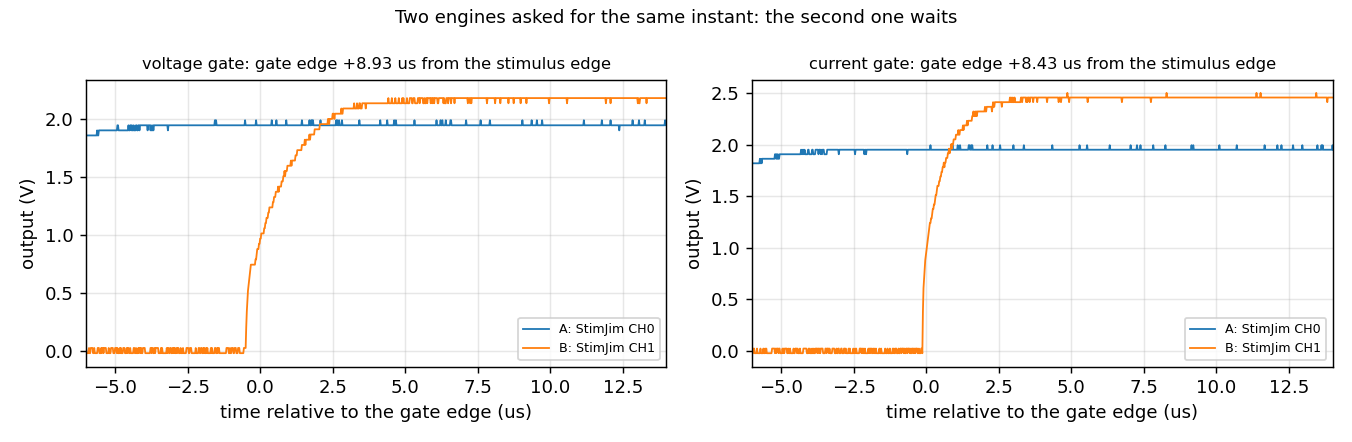
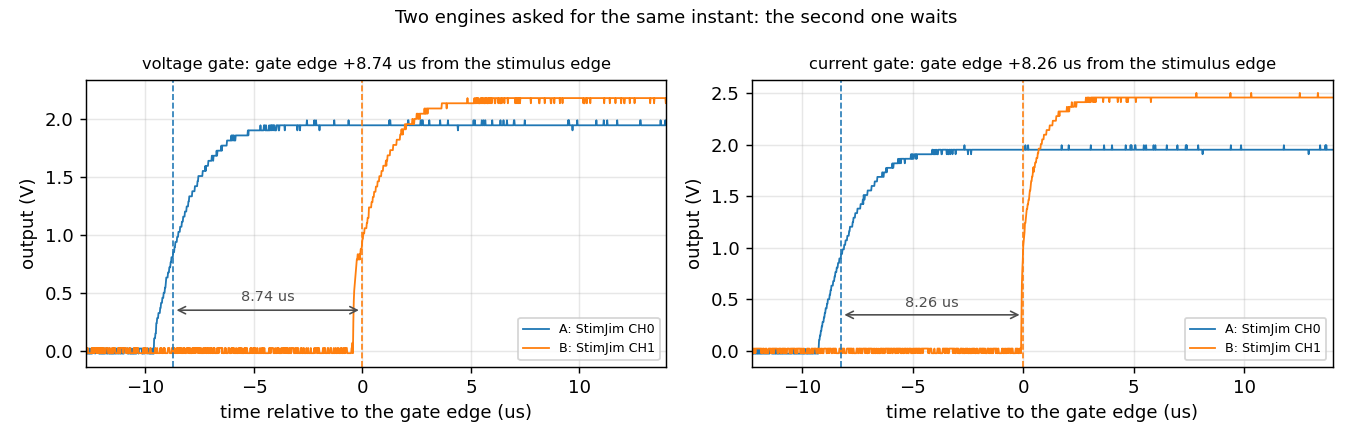
Show the stimulus edge in the collision figure, and keep its raw samples
The collision plot fixed its x limit at -6 us, but the stimulus edge sits
8-9 us before the gate edge it is plotted against, so the very edge being
measured fell outside the window and CH0 looked flat. The limit now follows
the measured skew, both crossings are marked, and the gap is annotated.

The captures are also written to tmp/ now, so the figure can be redrawn
without occupying the bench, and the tables in bench-wiring.md and the phase
entry are re-taken from the run the figures come from. That run puts the
coincidence at 8.74 us (voltage gate) and 8.26 us (current gate) -- larger
than C1's 7.39 us because contention costs however long the other engine's
ISR takes, and this one collides with a measured current-mode stage rather
than an unmeasured voltage one.

diff --git a/tests/device/dualchan.py b/tests/device/dualchan.py
@@ -947,13 +947,26 @@ def usecase_figures(res):
     for ax, m in zip(axes[0], modes):
         dt, ch = res[m]["collide"]
         n = len(ch[ps.CHANNEL_A])
+        sk = res[m].get("collide_skew")
+        # Time relative to the gate edge, which is where the scope triggered:
+        # 25 % pre-trigger puts it a quarter of the way into the record.
         t = [(i - n / 4) * dt * 1e6 for i in range(n)]
         ax.plot(t, ch[ps.CHANNEL_A], lw=1.0, label=NAME[ps.CHANNEL_A])
         ax.plot(t, ch[ps.CHANNEL_B], lw=1.0, label=NAME[ps.CHANNEL_B])
-        ax.set_xlim(-6, 14)
+        # The window has to reach back past the stimulus edge. A fixed -6 us
+        # cropped it out whenever the skew was larger than that, which left
+        # CH0 looking flat in the very figure that measures its edge.
+        lead = sk * 1e6 if sk is not None else 0.0
+        ax.set_xlim(min(-lead, 0.0) - 4, 14)
+        if sk is not None:
+            ax.axvline(-lead, color="C0", ls="--", lw=0.9)
+            ax.axvline(0.0, color="C1", ls="--", lw=0.9)
+            ax.annotate("", (0.0, 0.35), (-lead, 0.35),
+                        arrowprops=dict(arrowstyle="<->", lw=0.9, color="0.3"))
+            ax.annotate(f"{lead:.2f} us", (-lead / 2, 0.40), fontsize=8,
+                        ha="center", va="bottom", color="0.3")
         ax.set_xlabel("time relative to the gate edge (us)")
         ax.set_ylabel("output (V)")
-        sk = res[m].get("collide_skew")
         ax.set_title(f"{m} gate" +
                      (f": gate edge {sk*1e6:+.2f} us from the stimulus edge"
                       if sk is not None else ""), fontsize=9)
@@ -964,6 +977,20 @@ def usecase_figures(res):
     fig.tight_layout()
     fig.savefig(FIGS / "stimjim-usecase-collision.png")
     plt.close(fig)
+
+    # The raw coincidence captures, so the figure above can be redrawn without
+    # occupying the bench again.
+    for m in modes:
+        dt, ch = res[m]["collide"]
+        n = len(ch[ps.CHANNEL_A])
+        with open(TMP / f"stimjim-usecase-collision-{m}.csv", "w",
+                  newline="") as fh:
+            w = csv.writer(fh)
+            w.writerow(["t_us_from_gate_edge", "ch0_V", "ch1_V"])
+            for i in range(n):
+                w.writerow([f"{(i - n/4) * dt * 1e6:.4f}",
+                            f"{ch[ps.CHANNEL_A][i]:.4g}",
+                            f"{ch[ps.CHANNEL_B][i]:.4g}"])
 
     with open(TMP / "stimjim-usecase.csv", "w", newline="") as fh:
         w = csv.writer(fh)

diff --git a/docs/PROGRESS.md b/docs/PROGRESS.md
@@ -4,7 +4,7 @@ One line per phase, newest first. Full handoff entries — decisions, rationale,
 questions, next entry point — live in `docs/progress/<NNN>-<topic>.md` (project convention,
 CLAUDE.md). To pick up work read this index, then at most the newest one or two entries.
 
-- 019 2026-09-08 config-c-dual-channel — the last oscilloscope work on this firmware: configuration C measured, and with it every remaining claim about driving both channels at once. **One train's two channels latch together** — 0.162 µs apart at 50 % of each step, against the 2 µs that programming a second channel separately would cost — while **two independently routed trains that want the same instant land 7.392 µs apart**. That second figure only means anything because of a control the original procedure did not call for: with only the coincident case measured, contention, a constant lead of one engine over the other, and the scope's own inter-channel skew are indistinguishable, since every latch collides. Delaying CH1 by 20 µs so the latches never coincide gives a residual of 0.061 µs, which says there is no constant engine offset and puts the measurement floor under 100 ns; subtracting it leaves 7.392 µs at the 50 % crossing and 7.393 µs at the foot — two estimates with different sensitivity to settling agreeing to a nanosecond, which is what proves it is a delay and not a settling difference. It supersedes configuration A's differential 9–10 µs, and it is **not** a first-latch cost: caught tens of pulses into a 3 s train it is the same 7.454 µs, so it applies to every coincident latch for the life of the train. The joint case's own 0.162 µs is analog, not timing — the 50 % crossing and the foot disagree by 0.33 µs where a real skew would move both equally — so the old pass criterion ("coincide within one sample interval") was testing the instrument rather than the claim and has been replaced. **`SJ_FS_MAX_HZ` is now 100 kHz, measured**: the two-channel sine is late on nothing up to 115 kHz, late once per *train* from 128 to 147 kHz, late in proportion to the sample count from 150 kHz and collapsed at 160 kHz — and past 175 kHz the overrun counter falls back to nearly zero while "already due" goes to one per sample, so a plot of overruns alone reads as recovery when the generator has actually stopped working. Getting there needed the constant to become overridable (`#ifndef`, so `-DSJ_FS_MAX_HZ=250000` reaches it) and two reflashes; EEPROM survived both. A separate effect, deliberately kept out of the ceiling: a bursted sine with `burst_us == period_us` loses one or two latches per burst boundary because `Fs` is realized as a whole number of CPU cycles and most rates do not divide 120 MHz evenly — applying the "70 % of the first overrun" rule to burst mode would have given 38 kHz and measured the wrong thing. The worked example asked for — a 2 mA biphasic current train on CH0 and a 50 µs × 4 gate burst on CH1 half a second later, one trigger edge, gate in both voltage and current mode — shows the 7.39 µs where it bites: the gate delay is an exact multiple of the stimulus period, so the gate's *rises* land on stimulus events and its *falls* do not, and **the first three gate pulses come out ~10 µs short of 50 µs** in both output modes while the fourth is full width; moving the gate 250 µs off the grid restores all four and silences the firmware's own counters. Voltage and current mode differ only in amplitude (2500 mV → 2.207 V into 1010 Ω against 2500 µA → 2.479 V, the ~135 Ω source impedance from phase 018), not in timing. Long-run drift also closed: 300 s crossing the 32-bit cycle wrap 8.4 times, 300 of 300 pulses, no fault. Four harness faults fixed, three of which produced plausible wrong numbers — captures taken while the previous train still held engine 0 caught the *gate alone* and showed a perfect uncontended burst; an edge finder run on a flat trace reported an 8.4 µs skew from an edge that was not in the window; a driver exception left `CAL STARTLAT` on the raised two-engine value; and the C2 sweep table and its scope trace shared a filename. New `tests/device/dualchan.py` (check/c1/c2/usecase) and `tests/device/longrun.py`, six figures (progress/019-config-c-dual-channel.md)
+- 019 2026-09-08 config-c-dual-channel — the last oscilloscope work on this firmware: configuration C measured, and with it every remaining claim about driving both channels at once. **One train's two channels latch together** — 0.162 µs apart at 50 % of each step, against the 2 µs that programming a second channel separately would cost — while **two independently routed trains that want the same instant land 7.392 µs apart**. That second figure only means anything because of a control the original procedure did not call for: with only the coincident case measured, contention, a constant lead of one engine over the other, and the scope's own inter-channel skew are indistinguishable, since every latch collides. Delaying CH1 by 20 µs so the latches never coincide gives a residual of 0.061 µs, which says there is no constant engine offset and puts the measurement floor under 100 ns; subtracting it leaves 7.392 µs at the 50 % crossing and 7.393 µs at the foot — two estimates with different sensitivity to settling agreeing to a nanosecond, which is what proves it is a delay and not a settling difference. It supersedes configuration A's differential 9–10 µs, and it is **not** a first-latch cost: caught tens of pulses into a 3 s train it is the same 7.454 µs, so it applies to every coincident latch for the life of the train. The joint case's own 0.162 µs is analog, not timing — the 50 % crossing and the foot disagree by 0.33 µs where a real skew would move both equally — so the old pass criterion ("coincide within one sample interval") was testing the instrument rather than the claim and has been replaced. **`SJ_FS_MAX_HZ` is now 100 kHz, measured**: the two-channel sine is late on nothing up to 115 kHz, late once per *train* from 128 to 147 kHz, late in proportion to the sample count from 150 kHz and collapsed at 160 kHz — and past 175 kHz the overrun counter falls back to nearly zero while "already due" goes to one per sample, so a plot of overruns alone reads as recovery when the generator has actually stopped working. Getting there needed the constant to become overridable (`#ifndef`, so `-DSJ_FS_MAX_HZ=250000` reaches it) and two reflashes; EEPROM survived both. A separate effect, deliberately kept out of the ceiling: a bursted sine with `burst_us == period_us` loses one or two latches per burst boundary because `Fs` is realized as a whole number of CPU cycles and most rates do not divide 120 MHz evenly — applying the "70 % of the first overrun" rule to burst mode would have given 38 kHz and measured the wrong thing. The worked example asked for — a 2 mA biphasic current train on CH0 and a 50 µs × 4 gate burst on CH1 half a second later, one trigger edge, gate in both voltage and current mode — shows the 7.39 µs where it bites: the gate delay is an exact multiple of the stimulus period, so the gate's *rises* land on stimulus events and its *falls* do not, and **the first three gate pulses come out ~9 µs short of 50 µs** in both output modes while the fourth is full width; moving the gate 250 µs off the grid restores all four and silences the firmware's own counters. Voltage and current mode differ only in amplitude (2500 mV → 2.207 V into 1010 Ω against 2500 µA → 2.479 V, the ~135 Ω source impedance from phase 018), not in timing. Long-run drift also closed: 300 s crossing the 32-bit cycle wrap 8.4 times, 300 of 300 pulses, no fault. Four harness faults fixed, three of which produced plausible wrong numbers — captures taken while the previous train still held engine 0 caught the *gate alone* and showed a perfect uncontended burst; an edge finder run on a flat trace reported an 8.4 µs skew from an edge that was not in the window; a driver exception left `CAL STARTLAT` on the raised two-engine value; and the C2 sweep table and its scope trace shared a filename. New `tests/device/dualchan.py` (check/c1/c2/usecase) and `tests/device/longrun.py`, six figures (progress/019-config-c-dual-channel.md)
 - 018 2026-09-08 voltage-mode-current — the firmware no longer reports a current for a channel driving in voltage mode, because on this hardware there is nothing there to measure: phase 016 read the symptom right (a 1 kΩ resistor came back as 3988 Ω) and the cause wrong. It was never a miscalibrated readback. The DG409 output mux is a **dual** 4:1 addressed by `OE1:OE0` = the mode bits, and its second bank decides what `I_OUT` — the branch holding the 100 Ω sense shunt — is tied to: `CHANNEL_OUT` in current mode, and R14, a 1 kΩ on-board dummy, in every other mode. There is no shunt anywhere in the `V_OUT` path, so in voltage mode the sense amplifier was reading the Howland pump's own current into that dummy; the pump is still driven by the same DAC code, so the number was real, linear and unrelated to the load — it matches `commanded_mV / MILLIVOLTS_PER_DAC × MICROAMPS_PER_DAC` to better than 1 % at every amplitude, and the apparent factor of four was an accident of the 1 kΩ load (a different load would have given a different factor, which is what proves it was not a calibration). The ADC range hypothesis is ruled out by observation rather than datasheet: `setAdcRange` writes both input lines in one register write and the voltage line agrees with a scope in both modes. Fix is one place — `planCompile` masks line 1 off for a voltage-mode channel — and everything follows: `nReads` drops so a voltage-mode point needs a narrower gap, `MSUM`/`MRANGE`/`MDATA` and the SD rows leave the current fields empty, the OLED already prints `--` for I and R, and one `#` line per train says why; the stored `MEAS what` is untouched, so current mode brings the reading back. `READ` and the legacy `E` still read both lines (E's reply is byte-frozen, and the output mode is not tracked in software), documented rather than changed. A second phase-016 claim corrected: the "output runs 10–15 % below command" is **load droop, not gain** — an unloaded channel reads 1996 mV for 2000 commanded while the same command into 1 kΩ gives 1766, i.e. ~135 Ω of source impedance; every phase-016 measurement was into the same 1 kΩ so nothing there could separate them. And phase 017's "intermittent" smoke failure is neither intermittent nor unidentified: `smoke.py` asserts `TRIGCOMP == 0` and then runs `CALDEF`, so the first run after anyone calibrates fails and every run afterwards passes because the suite clobbered what it was checking — it has been silently resetting `STARTLAT`/`TRIGCOMP` to 35/0. `smoke.py` now copies `CAL?` up front, restores it after the `CALDEF` test in the order that cannot trip the validate invariant, and checks it left the budget as it found it; three other checks that assumed four measured lines were retargeted. Firmware rebuilt clean with `--warnings more` and reflashed — `cal=custom` afterwards also proves phase 017's EEPROM persistence survives a power cycle (progress/018-voltage-mode-current.md)
 - 017 2026-09-08 startlat-20 — the start latency now fits inside one latch interval: `CAL STARTLAT` 20 µs and `CAL TRIGCOMP` 2 µs, persisted, delivering the first output step **20.26 µs (sd 41 ns)** after the physical edge — cashing in phase 14's pre-arm, which had never been re-measured on silicon, and phase 16's hardware delay. `bench_arm.py`'s warmed column is **5.92–6.00 µs for every shape**, flat in stage count, waveform type and whether the train is measured, which is the first silicon evidence that moving the preparation into `loop()` did what it claimed (the phase-13 figures it replaces ran 9.0 to 15.0 µs); the cold path is unchanged. The arithmetic floor `arm + PRELOAD + DACPROG2 + 3 + TRIGCOMP` comes to exactly 20, but the firmware's own verdict under real trigger edges breaks between 16 and 18 — at 16 it asks for 17 — so 20 carries 3 µs of real margin on a joint route. **The cost is that an independent `TRIG` route no longer fits**: it arms two engines from one edge and wants 30–35 µs, so a bench routing two slots independently from one input must raise `STARTLAT` back and give up the sample-aligned latency; a single train driving both channels keeps both, and was already the right construct because independent routes contend for their first latch by ~10 µs. Not a silent failure — the train runs and its completion names the value that would have covered it. `startlat_trig.py` now covers both route modes, which took two fixes: the independent case has to be `S` and not `L` (two `L` ramps latch every ~10 µs between them and buried the arm's verdict under ~2470 "already due" notes per train, measuring dual-engine throughput instead), and the verdict has to separate the arm's `WARN` from the throughput `#` note, which two busy engines produce at any `STARTLAT`. Compensation verified: `t0` lands at 18 µs, the hardware adds 2.26 µs — the same figure measured against a 35 µs budget, so it does not depend on the budget — and the leftover 0.26 µs is just `CAL` taking whole microseconds. A triggered start now leads a `T`/`U` start by ~2 µs, since two of `TRIGCOMP`'s three terms are common to both paths; that is the accepted trade for an absolute edge-to-output latency. Compiled defaults stay 35/0 on purpose — `TRIGCOMP` is a property of the board, not a constant to copy — so only this board's EEPROM carries the new values (`P` does persist `CAL` at `TrainStore.cpp:548`, though its reply does not say so). Two harness bugs fixed: `sjcon.ASYNC` never learned about phase 15's `MRANGE` or `WARN engine:`, so a train completing mid-command derailed the next `cmd1`; and `make_bench_figures.py` hardcoded `CAL_STARTLAT = 35`, so `trigcomp.py` now writes both budgets into every CSV row and the figures read them (progress/017-startlat-20.md)
 - 016 2026-09-08 config-b-trigcomp — the last unmeasured quantity in the firmware has a number: the output leaves its baseline 37.27 µs (sd 49 ns over 30 shots) after the physical edge at IN0 crosses the level that pin actually switches at, so against the 35 µs `CAL STARTLAT` the unaccounted hardware delay — what `CAL TRIGCOMP` would absorb — is 2.27 µs rather than the few hundred nanoseconds predicted, because a scope on the trigger input and one output sees the pin-to-ISR delay, the PIT wake with its 0.8 µs quantum and the AD5752's latch-to-output delay only summed, and `NLDAC` is not brought out to separate them; `TRIGCOMP` is left at **0** on purpose, since it is subtracted on the trigger path alone while two of its three terms apply to a `T`/`U` start too, so applying it would make triggered trains lead software-started ones by ~2 µs — a decision about what the instrument guarantees, not a calibration. Getting a trustworthy number meant correcting the prescribed procedure twice: reference the edge to the pin's own measured threshold (1.757 ± 0.022 V, from walking the AWG peak down until trains stop) and not to half the AWG's amplitude, because the edge slews only 0.75 V/µs and the choice moves the answer 1.7 µs; and time the *foot* of the output step and not its 50 % point, which is contaminated by settling — the foot agrees to six nanoseconds between an 8 V and a 2 V step, which is the control that says the load is not in the answer. Two faults surfaced on the way, neither related to the measurement: the channel-0 **current readback is 4.02× low in voltage mode** (a 1 kΩ resistor reads 3988 Ω through the board's own V/I, but 993 Ω when current mode forces the current and the scope reads the voltage, and the board's voltage readback agrees with the scope throughout — so every voltage-mode `MSUM`/`MDATA`/`READ` current is a quarter of the truth and phase 015's OLED load resistances are four times it, which is now the top open item); and `pico2000.py` had been multiplying `get_timebase`'s nanosecond interval by its `time_units` code, which is the unit of a different call's timestamp array, so timebases 1–5 reported intervals a thousand times too small and `pick_timebase` had never chosen one — every capture in the repo was taken at 640 ns when 20 ns was free (fixed; no existing result changes, because `capture.py` only ever asks for 640 ns or coarser). A false alarm is recorded too: timebases 0 and 1 *looked* like they sampled slower than they claimed, by a clean 1/3 and 3/4, until de-glitching the edge counting showed it was noise dithering across the threshold on a slow edge — every timebase the driver accepts delivers what it claims. Also measured: the analog output reaches 90 % in 1.91 µs while `BENCHSETTLE` says 8–9 µs, so `CAL SETTLE` is mostly the ADC path; and the voltage-mode output runs 10–15 % below command, worsening with load current. New `tests/device/trigcomp.py` (check / threshold / measure) and `tests/device/scope_timebase.py`, four explanatory figures from `docs/figures/make_bench_figures.py` (progress/016-config-b-trigcomp.md)

diff --git a/docs/progress/019-config-c-dual-channel.md b/docs/progress/019-config-c-dual-channel.md
@@ -12,7 +12,7 @@ now **100 kHz**, measured rather than estimated. A worked example — a biphasic
 channel 0 and a gating burst on channel 1, delayed half a second, started by one trigger edge —
 shows what the 7.39 µs costs in practice: when the gate's delay is an exact multiple of the
 stimulus period its rising edges collide with stimulus events and its falling edges do not, so the
-first three gate pulses come out 10 µs short of the 50 µs asked for. Moving the gate 250 µs off
+first three gate pulses come out about 9 µs short of the 50 µs asked for. Moving the gate 250 µs off
 the stimulus grid restores all four to full width and silences the firmware's own timing counters.
 
 ## The bench
@@ -176,10 +176,16 @@ events (the two phase starts and the park) and its falling edges at +50, +550 an
 nothing. The rises are pushed back by the contention, the falls are not, and the pulses come out
 short.
 
-| gate mode | pulse widths on the stimulus grid | with the gate 250 µs off the grid |
-|---|---|---|
-| voltage | 39.9, 40.8, 39.1, **49.0** µs | 49.1, 49.0, 49.0, 49.1 µs |
-| current | 40.1, 41.4, 39.5, **49.7** µs | 49.6, 49.4, 49.8, 49.7 µs |
+| gate mode | pulse widths on the stimulus grid | with the gate 250 µs off the grid | gate edge behind the stimulus edge |
+|---|---|---|---|
+| voltage | 40.1, 40.8, 39.3, **49.0** µs | 49.0, 48.8, 48.8, 49.0 µs | 8.74 µs |
+| current | 40.5, 41.8, 40.1, **49.5** µs | 49.4, 49.3, 49.6, 49.6 µs | 8.26 µs |
+
+The last column is the coincidence measured directly at 20 ns per sample, and it accounts for the
+width deficit by itself. It is larger than C1'"'"'s 7.39 µs because contention costs however long
+the *other* engine'"'"'s ISR takes, and the latch it collides with here is heavier — a current-mode
+stage carrying in-train measurement, against C1'"'"'s unmeasured single-stage voltage train. Run to
+run these move by a few tenths of a microsecond.
 
 The fourth pulse is full width in both cases, because its rise at +1500 µs has no stimulus event on
 it. The firmware reports the same thing with no scope involved: `# engine: 3 event(s) were already

diff --git a/docs/bench-wiring.md b/docs/bench-wiring.md
@@ -369,12 +369,19 @@ CAL,STARTLAT,35                                # an independent route arms two e
 The gate delay of 500 000 µs is an exact multiple of the stimulus period, so the gate's rising
 edges at +0, +500 and +1000 µs land on stimulus events — the two phase starts and the park — while
 its falling edges at +50, +550 and +1050 µs land on nothing. The rises are pushed back by the
-contention and the falls are not, so **the first three gate pulses come out about 10 µs short**:
+contention and the falls are not, so **the first three gate pulses come out about 9 µs short**:
 
-| gate mode | pulse widths on the stimulus grid | 250 µs off the grid |
-|---|---|---|
-| voltage | 39.9, 40.8, 39.1, **49.0** µs | 49.1, 49.0, 49.0, 49.1 µs |
-| current | 40.1, 41.4, 39.5, **49.7** µs | 49.6, 49.4, 49.8, 49.7 µs |
+| gate mode | pulse widths on the stimulus grid | 250 µs off the grid | gate edge behind the stimulus edge |
+|---|---|---|---|
+| voltage | 40.1, 40.8, 39.3, **49.0** µs | 49.0, 48.8, 48.8, 49.0 µs | 8.74 µs |
+| current | 40.5, 41.8, 40.1, **49.5** µs | 49.4, 49.3, 49.6, 49.6 µs | 8.26 µs |
+
+The last column is the coincidence measured directly, at 20 ns per sample, and it accounts for the
+width deficit on its own: 49.0 − 40.1 = 8.9 µs against a measured 8.74, and 49.5 − 40.5 = 9.0
+against 8.26. It is larger than C1'"'"'s 7.39 µs because contention costs however long the *other*
+engine'"'"'s ISR takes, and the latch it collides with here is a heavier one — a current-mode stage
+with in-train measurement rather than C1'"'"'s unmeasured single-stage voltage train. Run to run the
+figure moves by a few tenths of a microsecond.
 
 ![the gate burst, and what the coinciding stimulus pulse does to the first of them](../figs/stimjim-usecase-gate.png)
 
